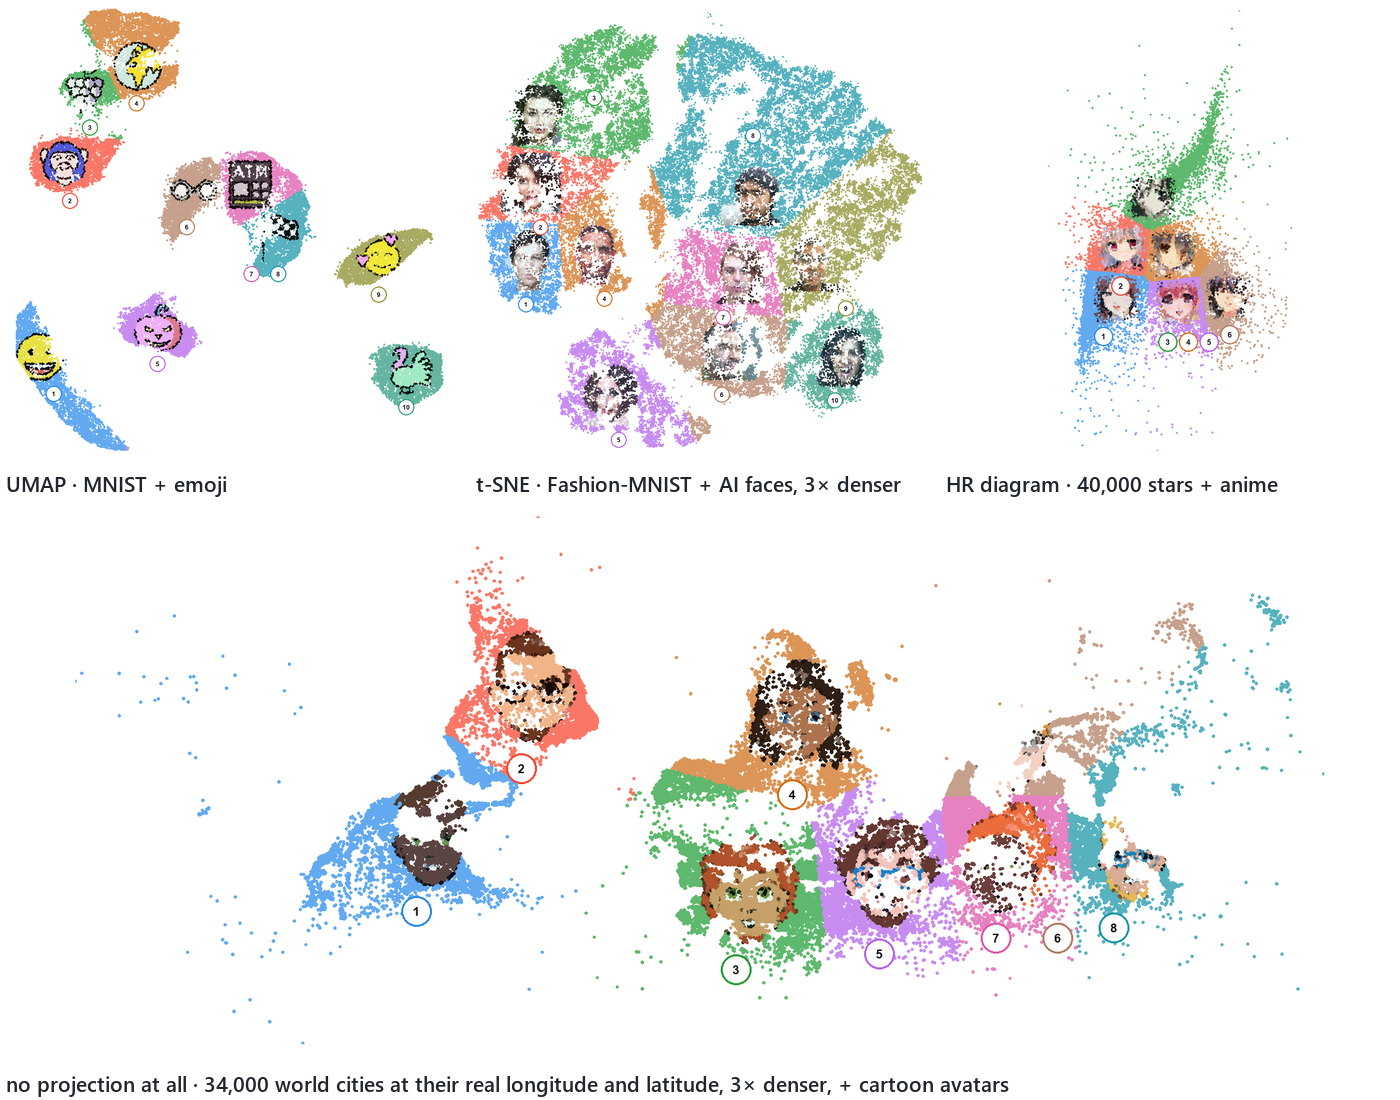
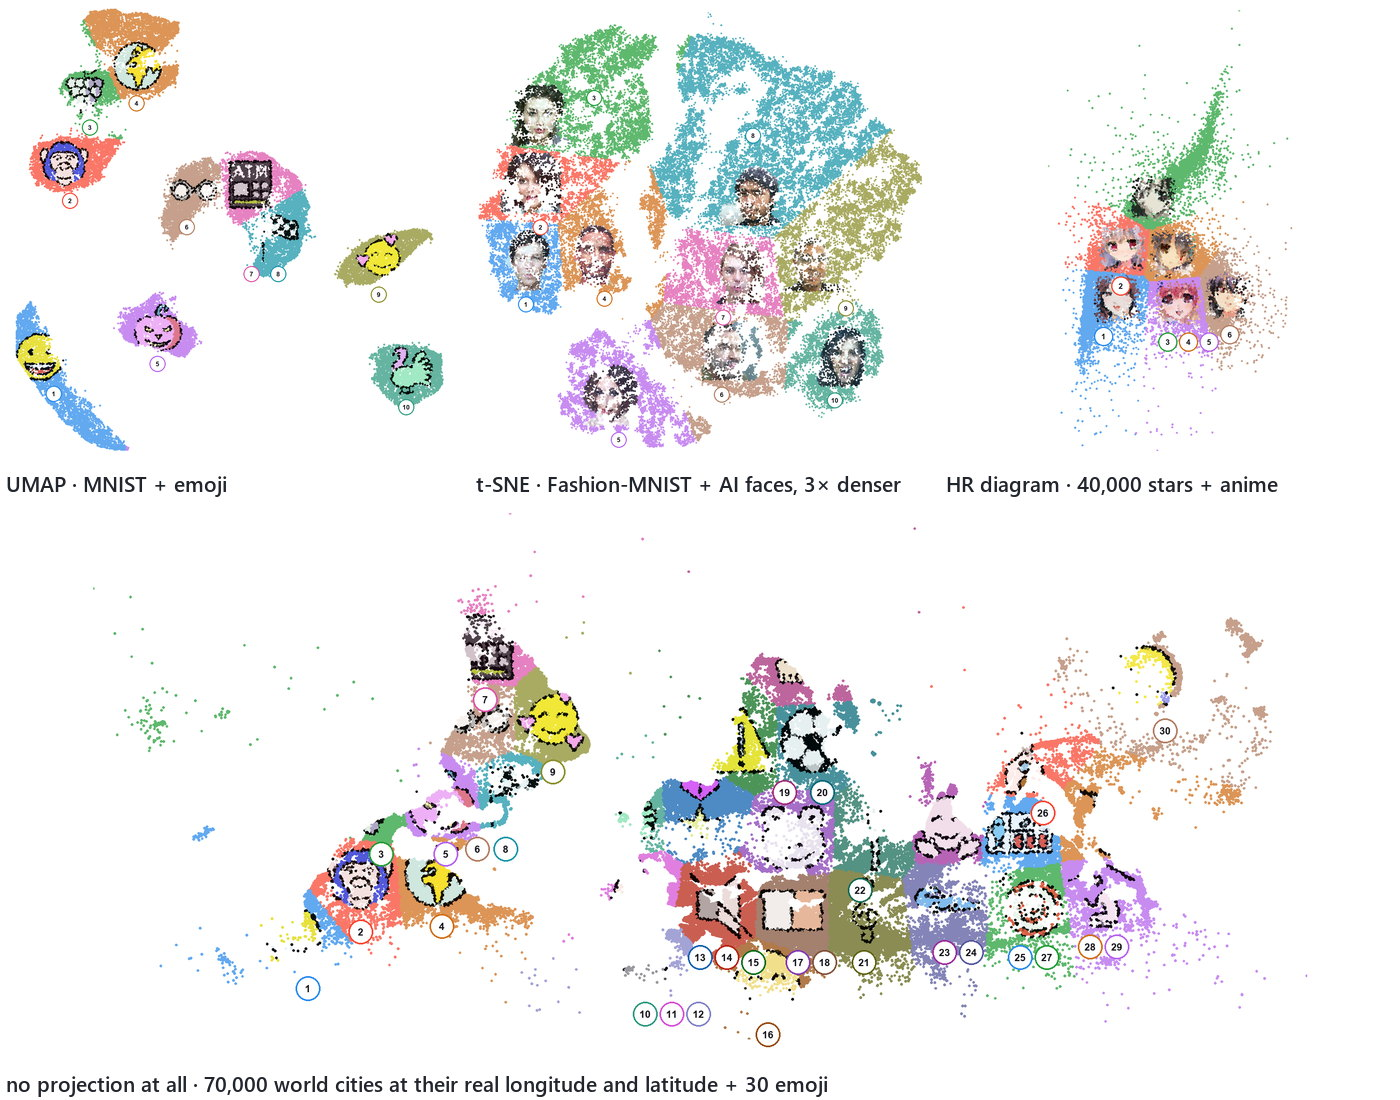
Rename to Scatter Mosaic, and rewrite the README as a tool's front page
The name was the last thing claiming this is about UMAP. The library never
imported it; UMAP is one of three --layout options and three of the datasets
skip the layout step entirely. So: umap_mosaic -> scatter_mosaic, and the repo
follows.

The README had grown into a record of the order things were added rather than a
document for somebody arriving cold. Rewritten around what a reader needs: what
it does, how to run it on their own CSV, what their data has to look like, and
one picture of it working on four kinds of scatter. Everything else moved to the
guide, which no longer defines itself as "what the README leaves out".

The world-cities example was the weak one. Coastlines are ragged and thin, and
eight large pictures could not sit on them. Thirty small ones on a denser
gazetteer (cities5000, 70k places) at 5x density can: individual emoji are
legible across every continent. The cost is a 20 MB page, so the guide now
states the rate — roughly 65 bytes a point.

diff --git a/scripts/fetch_example.py b/scripts/fetch_example.py
@@ -84,9 +84,9 @@ import sys  # noqa: E402
 
 sys.path.insert(0, str(ROOT))
 
-from umap_mosaic.cutout import apply_cutout, cut_out, pad_to_frame  # noqa: E402
-from umap_mosaic.density import densify  # noqa: E402
-from umap_mosaic.remote import RemoteFile  # noqa: E402
+from scatter_mosaic.cutout import apply_cutout, cut_out, pad_to_frame  # noqa: E402
+from scatter_mosaic.density import densify  # noqa: E402
+from scatter_mosaic.remote import RemoteFile  # noqa: E402
 
 DIGIT_NAMES = ["zero", "one", "two", "three", "four", "five", "six", "seven", "eight", "nine"]
 GARMENT_NAMES = ["t-shirt", "trouser", "pullover", "dress", "coat",
@@ -95,7 +95,7 @@ GARMENT_NAMES = ["t-shirt", "trouser", "pullover", "dress", "coat",
 KUZUSHIJI_NAMES = ["o", "ki", "su", "tsu", "na", "ha", "ma", "ya", "re", "wo"]
 LFW_HOME = Path.home() / "scikit_learn_data" / "lfw_home" / "lfw_funneled"
 
-GEONAMES_CITIES = "https://download.geonames.org/export/dump/cities15000.zip"
+GEONAMES_CITIES = "https://download.geonames.org/export/dump/cities5000.zip"
 USGS_QUERY = ("https://earthquake.usgs.gov/fdsnws/event/1/query?format=csv"
               "&starttime={start}&endtime={end}&minmagnitude=2.5&orderby=time")
 # One query may return at most 20,000 events, so a year has to be asked for in parts.
@@ -200,7 +200,7 @@ def cartoon(limit: int, pool: int) -> Source:
     """
     import pyarrow.parquet as pq
 
-    from umap_mosaic.remote import session
+    from scatter_mosaic.remote import session
 
     connection = session()
     frames, first, columns = [], None, None
@@ -320,7 +320,7 @@ def emoji_pictures(count: int, pool: int, seed: int) -> list[tuple[Image.Image, 
     the plain one — the grinning face rather than its fourteen cousins. Skin-tone
     variants and multi-codepoint sequences are dropped for the same reason.
     """
-    from umap_mosaic.remote import session
+    from scatter_mosaic.remote import session
 
     print("Reading the OpenMoji index...")
     connection = session()
@@ -375,13 +375,13 @@ def cities(limit: int) -> Source:
     import io as _io
     import zipfile
 
-    from umap_mosaic.remote import session
+    from scatter_mosaic.remote import session
 
     print("Fetching GeoNames cities15000 (~3 MB)...")
     answer = session().get(GEONAMES_CITIES, timeout=180)
     answer.raise_for_status()
     with zipfile.ZipFile(_io.BytesIO(answer.content)) as bundle:
-        with bundle.open("cities15000.txt") as handle:
+        with bundle.open("cities5000.txt") as handle:
             frame = pd.read_csv(handle, sep="\t", header=None, dtype=str,
                                 usecols=[1, 4, 5, 8, 14],
                                 names=["name", "lat", "lon", "country", "population"])
@@ -414,7 +414,7 @@ def quakes(limit: int) -> Source:
     """
     import io as _io
 
-    from umap_mosaic.remote import session
+    from scatter_mosaic.remote import session
 
     connection = session()
     parts = []
@@ -449,7 +449,7 @@ def stars(limit: int) -> Source:
     """
     import io as _io
 
-    from umap_mosaic.remote import session
+    from scatter_mosaic.remote import session
 
     print("Fetching the HYG star catalogue (~32 MB)...")
     answer = session().get(HYG_STARS, timeout=900)

diff --git a/scripts/build_mosaic.py b/scripts/build_mosaic.py
@@ -15,13 +15,13 @@ from PIL import Image, ImageFilter
 from sklearn.cluster import KMeans
 
 sys.path.insert(0, str(Path(__file__).resolve().parents[1]))
-from umap_mosaic import images as img  # noqa: E402
-from umap_mosaic.dataset import dataset_name, load_embedding  # noqa: E402
-from umap_mosaic.layout import compact_clusters, normalize_isotropic  # noqa: E402
-from umap_mosaic.painting import paint_patches, paint_spots, quantize_per_region  # noqa: E402
-from umap_mosaic.placement import allocate_faces, assign_regions  # noqa: E402
-from umap_mosaic.silhouette import make_masks, mask_bbox, morph_into_mask  # noqa: E402
-from umap_mosaic.theme import THEMES, color_for, use_theme  # noqa: E402
+from scatter_mosaic import images as img  # noqa: E402
+from scatter_mosaic.dataset import dataset_name, load_embedding  # noqa: E402
+from scatter_mosaic.layout import compact_clusters, normalize_isotropic  # noqa: E402
+from scatter_mosaic.painting import paint_patches, paint_spots, quantize_per_region  # noqa: E402
+from scatter_mosaic.placement import allocate_faces, assign_regions  # noqa: E402
+from scatter_mosaic.silhouette import make_masks, mask_bbox, morph_into_mask  # noqa: E402
+from scatter_mosaic.theme import THEMES, color_for, use_theme  # noqa: E402
 
 ROOT = Path(__file__).resolve().parents[1]
 
@@ -325,7 +325,7 @@ def main() -> None:
         "paint": {"index": paint_index, "palettes": palettes},
     }
 
-    template = (ROOT / "umap_mosaic" / "template.html").read_text(encoding="utf-8")
+    template = (ROOT / "scatter_mosaic" / "template.html").read_text(encoding="utf-8")
     html = template.replace("__MOSAIC_DATA__", json.dumps(payload, separators=(",", ":"), ensure_ascii=False))
     if html == template:
         raise SystemExit("Template is missing the __MOSAIC_DATA__ placeholder")

diff --git a/scripts/build_poster.py b/scripts/build_poster.py
@@ -11,13 +11,13 @@ import pandas as pd
 from PIL import Image, ImageDraw, ImageEnhance, ImageFilter, ImageFont, ImageOps
 
 sys.path.insert(0, str(Path(__file__).resolve().parents[1]))
-from umap_mosaic import images as img  # noqa: E402
-from umap_mosaic.dataset import dataset_name, load_embedding  # noqa: E402
-from umap_mosaic.layout import normalize_isotropic  # noqa: E402
-from umap_mosaic.painting import blend_with_region, paint_patches, paint_spots  # noqa: E402
-from umap_mosaic.placement import allocate_faces  # noqa: E402
-from umap_mosaic.silhouette import make_masks, mask_bbox, morph_into_mask  # noqa: E402
-from umap_mosaic.theme import THEMES, color_for, theme_rgb, use_theme  # noqa: E402
+from scatter_mosaic import images as img  # noqa: E402
+from scatter_mosaic.dataset import dataset_name, load_embedding  # noqa: E402
+from scatter_mosaic.layout import normalize_isotropic  # noqa: E402
+from scatter_mosaic.painting import blend_with_region, paint_patches, paint_spots  # noqa: E402
+from scatter_mosaic.placement import allocate_faces  # noqa: E402
+from scatter_mosaic.silhouette import make_masks, mask_bbox, morph_into_mask  # noqa: E402
+from scatter_mosaic.theme import THEMES, color_for, theme_rgb, use_theme  # noqa: E402
 
 
 def arguments() -> argparse.Namespace:

diff --git a/scripts/extract_faces.py b/scripts/extract_faces.py
@@ -28,9 +28,9 @@ import numpy as np
 from PIL import Image, ImageDraw, ImageFont
 
 sys.path.insert(0, str(Path(__file__).resolve().parents[1]))
-from umap_mosaic import images as img  # noqa: E402
-from umap_mosaic.cutout import apply_cutout, checkerboard, cut_out  # noqa: E402
-from umap_mosaic.theme import THEMES, use_theme  # noqa: E402
+from scatter_mosaic import images as img  # noqa: E402
+from scatter_mosaic.cutout import apply_cutout, checkerboard, cut_out  # noqa: E402
+from scatter_mosaic.theme import THEMES, use_theme  # noqa: E402
 
 
 def arguments() -> argparse.Namespace:

diff --git a/scatter_mosaic/remote.py b/scatter_mosaic/remote.py
@@ -21,7 +21,7 @@ import requests
 from requests.adapters import HTTPAdapter
 from urllib3.util.retry import Retry
 
-USER_AGENT = "umap-photo-mosaic/1.0"
+USER_AGENT = "scatter-mosaic/1.0"
 
 
 def session(retries: int = 6) -> requests.Session:
